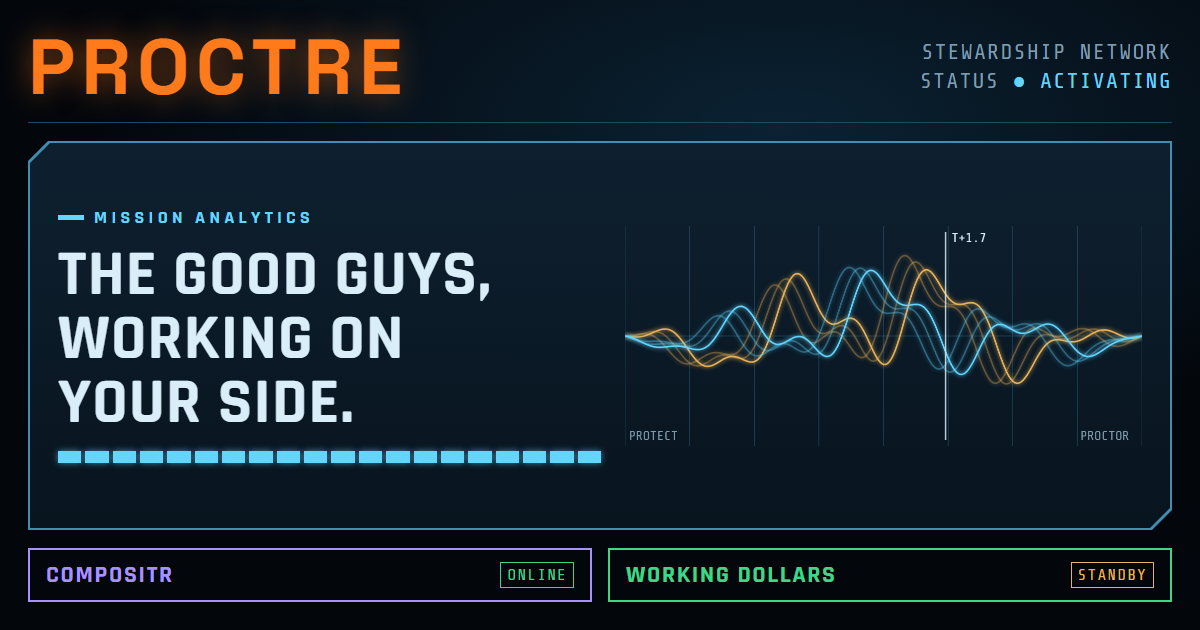
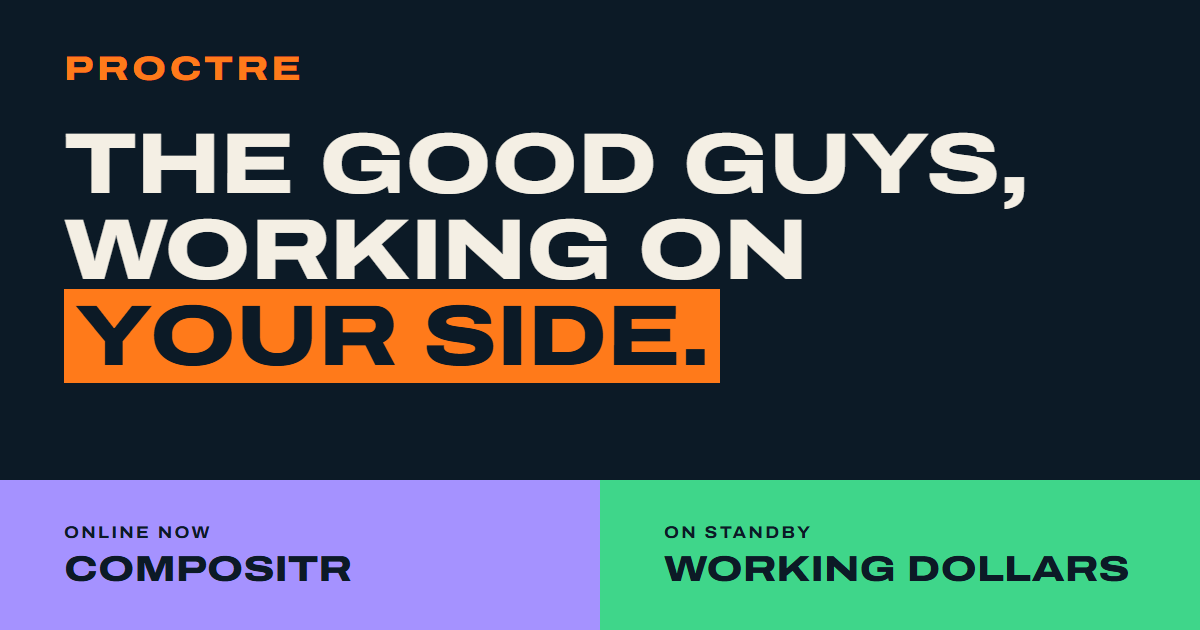
Share card: match the redesigned site

diff --git a/_og/card.html b/_og/card.html
@@ -2,62 +2,29 @@
 <!-- Source for og-image.png (the 1200x630 share card). Not published: GitHub Pages skips folders starting with "_".
      Rebuild with headless Edge, e.g.:
      msedge --headless=new --hide-scrollbars --window-size=1200,630 --virtual-time-budget=8000 --screenshot=og-image.png _og/card.html
-     To show a brand, add or remove its <div class="s"> row below. -->
+     Then raise the ?v= number on the og:image and twitter:image lines in index.html so apps fetch the new picture.
+     To show a brand, add or remove its <div class="b"> block below. Colours match style.css. -->
 <html><head><meta charset="utf-8">
-<link rel="stylesheet" href="https://fonts.googleapis.com/css2?family=Space+Grotesk:wght@700&family=Rajdhani:wght@700&family=Share+Tech+Mono&display=block">
+<link rel="stylesheet" href="https://fonts.googleapis.com/css2?family=Archivo:wdth,wght@62..125,400..900&display=block">
 <style>
-html,body{margin:0;width:1200px;height:630px;overflow:hidden;color:#d9eef8;background:radial-gradient(ellipse 80% 70% at 65% 20%,#0b2233 0%,#03070c 72%)}
-.box{position:absolute;inset:28px;display:grid;grid-template-rows:auto 1fr auto;gap:18px}
-.hdr{display:flex;justify-content:space-between;align-items:center;border-bottom:1px solid #1f4c63;padding-bottom:16px}
-.logo{font:700 78px/1 "Space Grotesk";letter-spacing:.08em;color:#ff7a1a;text-shadow:0 0 30px rgba(255,122,26,.5)}
-.meta{font:22px/1.3 "Share Tech Mono";color:#7f9cad;text-align:right;letter-spacing:.06em}
-.meta b{color:#62d6ff;font-weight:400}
-.frame{background:#3f8fb2;padding:2px;clip-path:polygon(20px 0,100% 0,100% calc(100% - 20px),calc(100% - 20px) 100%,0 100%,0 20px)}
-.in{height:100%;box-sizing:border-box;padding:22px 28px;background:linear-gradient(180deg,#0e2030,#08141e);clip-path:inherit;display:grid;grid-template-columns:1.05fr 1fr;gap:24px;align-items:center}
-.lbl{font:700 18px/1 Rajdhani;letter-spacing:.24em;color:#62d6ff;display:flex;align-items:center;gap:10px}
-.lbl i{width:26px;height:5px;background:#62d6ff}
-h1{margin:16px 0 0;font:700 64px/1 Rajdhani;text-transform:uppercase;letter-spacing:.02em}
-.seg{display:flex;gap:4px;height:12px;margin-top:16px}
-.seg i{flex:1;background:#62d6ff;box-shadow:0 0 6px rgba(98,214,255,.6)}
-canvas{width:100%;height:220px}
-.sys{display:flex;gap:16px}
-.s{flex:1;border:2px solid var(--c);padding:12px 16px;display:flex;justify-content:space-between;align-items:center;gap:12px;font:700 24px/1 Rajdhani;letter-spacing:.07em;color:var(--c)}
-.s span{font:16px/1 "Share Tech Mono";letter-spacing:.08em;border:1px solid currentColor;padding:4px 6px}
-</style></head><body><div class="box">
-<div class="hdr"><div class="logo">PROCTRE</div><div class="meta">STEWARDSHIP NETWORK<br>STATUS <b>&#9679; ACTIVATING</b></div></div>
-<div class="frame"><div class="in"><div><div class="lbl"><i></i>MISSION ANALYTICS</div><h1>The good guys,<br>working on<br>your side.</h1><div class="seg" id="seg"></div></div><canvas id="c" width="1040" height="440"></canvas></div></div>
-<div class="sys">
-  <div class="s" style="--c:#a592ff">COMPOSITR<span style="color:#3fd68a">ONLINE</span></div>
-  <div class="s" style="--c:#3fd68a">WORKING DOLLARS<span style="color:#e8b35a">STANDBY</span></div>
+html,body{margin:0;width:1200px;height:630px;overflow:hidden;background:#0c1a26;color:#f4efe4;font-family:"Archivo","Arial Black",sans-serif}
+.card{display:grid;grid-template-rows:1fr 150px;height:630px}
+.top{padding:50px 64px 0;display:grid;grid-template-rows:auto 1fr;gap:34px}
+.wide{font-stretch:125%;font-weight:800;text-transform:uppercase}
+.mark{font-size:34px;letter-spacing:.1em;color:#ff7a1a}
+h1{margin:0;font-size:86px;line-height:1;letter-spacing:-.01em}
+h1 mark{background:#ff7a1a;color:#0c1a26;padding:0 .12em}
+.brands{display:grid;grid-auto-flow:column;grid-auto-columns:1fr}
+.b{background:var(--c);color:#0c1a26;padding:0 64px;display:grid;align-content:center;gap:10px}
+.b small{font:700 17px/1 "Archivo",sans-serif;font-stretch:110%;letter-spacing:.14em;text-transform:uppercase}
+.b div{font-size:36px;line-height:1}
+</style></head><body><div class="card">
+<div class="top">
+  <div class="mark wide">Proctre</div>
+  <h1 class="wide">The good guys,<br>working on<br><mark>your side.</mark></h1>
 </div>
+<div class="brands">
+  <div class="b" style="--c:#a592ff"><small>Online now</small><div class="wide">Compositr</div></div>
+  <div class="b" style="--c:#3fd68a"><small>On standby</small><div class="wide">Working Dollars</div></div>
 </div>
-<script>
-var s = document.getElementById('seg');
-for (var i = 0; i < 20; i++) s.appendChild(document.createElement('i'));
-var c = document.getElementById('c'), x = c.getContext('2d'); x.scale(2, 2);
-var w = 520, h = 220, t = 1.7;
-x.strokeStyle = 'rgba(63,143,178,.3)'; x.lineWidth = 1;
-for (var g = 0; g <= 8; g++) { x.beginPath(); x.moveTo(w * g / 8, 0); x.lineTo(w * g / 8, h); x.stroke(); }
-x.beginPath(); x.moveTo(0, h / 2); x.lineTo(w, h / 2); x.stroke();
-function tr(col, ph, amp, tt) {
-  x.strokeStyle = col; x.lineWidth = 1.6; x.shadowColor = col; x.shadowBlur = 10;
-  for (var l = 0; l < 3; l++) {
-    x.globalAlpha = l ? .35 : 1; x.beginPath();
-    for (var px = 0; px <= w; px += 2) {
-      var u = px / w, e = Math.sin(u * Math.PI);
-      var y = h / 2 + e * amp * (Math.sin(u * 22 + tt * 2.1 + ph + l * .6) * .6 + Math.sin(u * 51 - tt * 3.3 + l) * .3 + Math.sin(u * 7 + tt * .7) * .4);
-      px ? x.lineTo(px, y) : x.moveTo(px, y);
-    }
-    x.stroke();
-  }
-  x.globalAlpha = 1; x.shadowBlur = 0;
-}
-tr('#e8b35a', 0, h * .32, t);
-tr('#62d6ff', 2.1, h * .26, t * 1.15);
-x.strokeStyle = 'rgba(217,238,248,.85)'; x.beginPath(); x.moveTo(w * .62, 6); x.lineTo(w * .62, h - 6); x.stroke();
-document.fonts.ready.then(function () {
-  x.fillStyle = '#7f9cad'; x.font = '13px "Share Tech Mono"';
-  x.fillText('PROTECT', 4, h - 6); x.fillText('PROCTOR', w - 62, h - 6);
-  x.fillStyle = '#d9eef8'; x.fillText('T+' + t.toFixed(1), w * .62 + 6, 16);
-});
-</script></body></html>
+</div></body></html>

diff --git a/index.html b/index.html
@@ -15,14 +15,14 @@
 <meta property="og:url" content="https://proctre.com/">
 <meta property="og:title" content="Proctre LLC: the good guys, working on your side">
 <meta property="og:description" content="Practical stewardship of money, time and habits. Home of Compositr and Working Dollars.">
-<meta property="og:image" content="https://proctre.com/og-image.png?v=4">
+<meta property="og:image" content="https://proctre.com/og-image.png?v=5">
 <meta property="og:image:width" content="1200">
 <meta property="og:image:height" content="630">
-<meta property="og:image:alt" content="PROCTRE console: The good guys, working on your side. Status activating. Compositr online; Working Dollars on standby.">
+<meta property="og:image:alt" content="Proctre: The good guys, working on your side. Compositr, online now. Working Dollars, on standby.">
 <meta name="twitter:card" content="summary_large_image">
 <meta name="twitter:title" content="Proctre LLC: the good guys, working on your side">
 <meta name="twitter:description" content="Practical stewardship of money, time and habits. Home of Compositr and Working Dollars.">
-<meta name="twitter:image" content="https://proctre.com/og-image.png?v=4">
+<meta name="twitter:image" content="https://proctre.com/og-image.png?v=5">
 <link rel="preconnect" href="https://fonts.googleapis.com">
 <link rel="preconnect" href="https://fonts.gstatic.com" crossorigin>
 <link rel="stylesheet" href="https://fonts.googleapis.com/css2?family=Archivo:wdth,wght@62..125,400..900&family=Newsreader:opsz,wght@6..72,400..600&display=swap">
